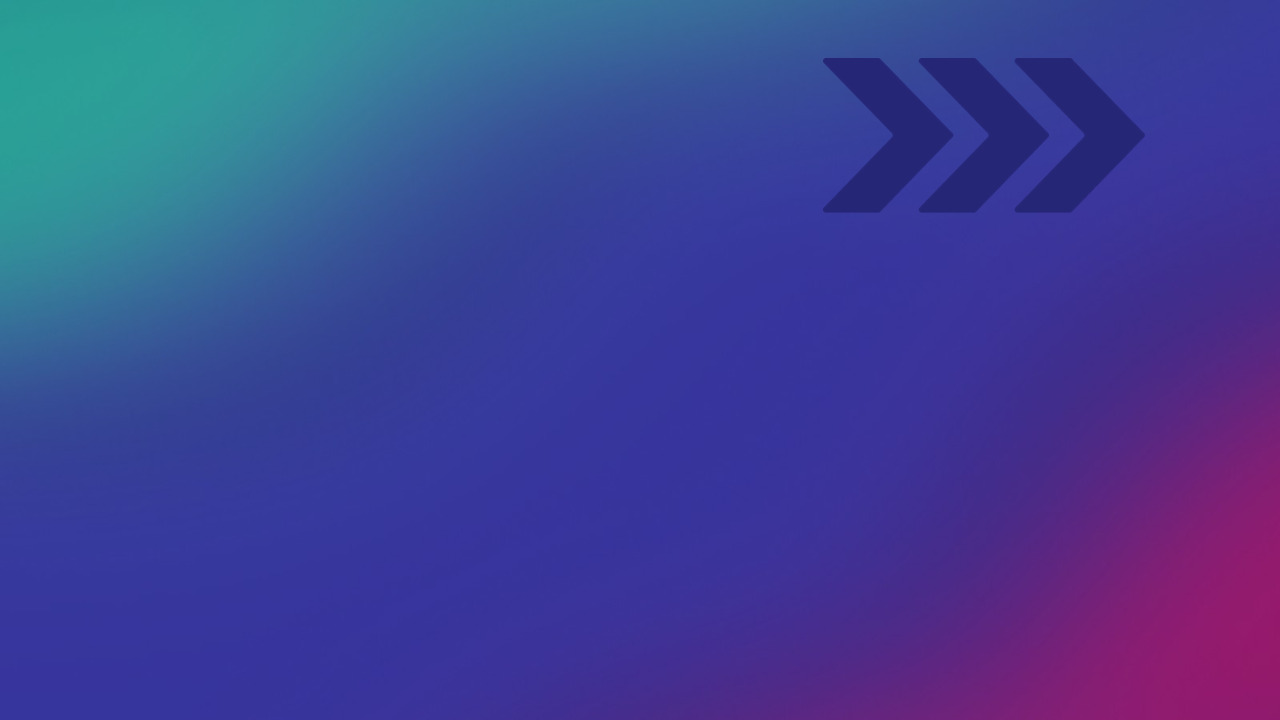
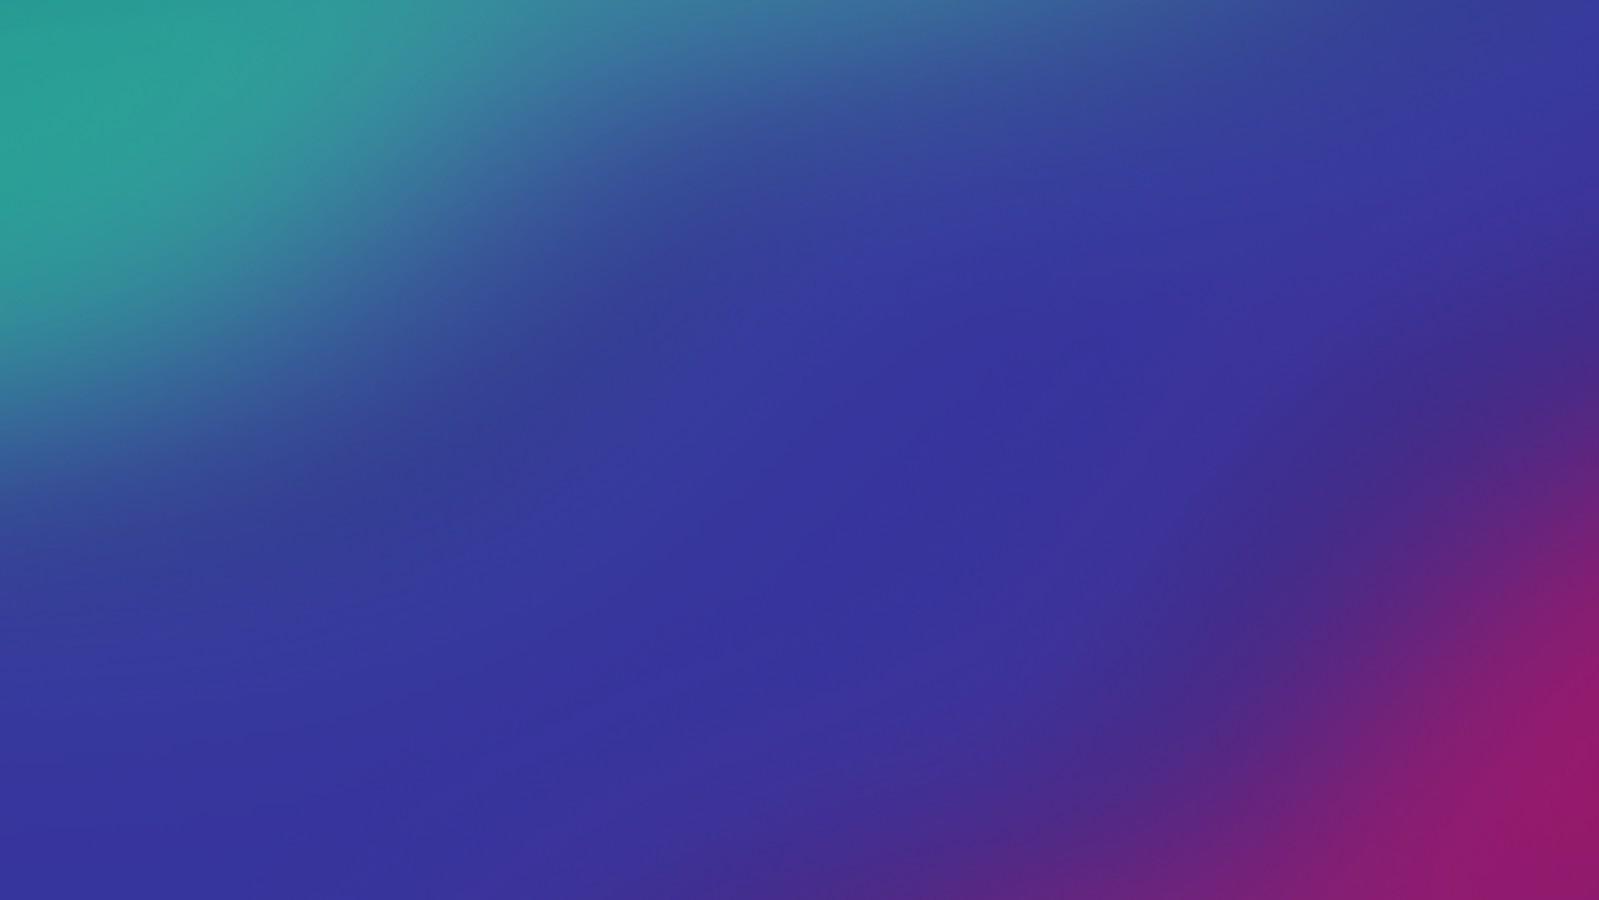
Update /cd/: gradient background + arrow overlay
https://claude.ai/code/session_01K76DjpKnadcSRfmkEe88s4

Changed region(s): [[0.625, 0.0611, 0.9062, 0.3056]]

diff --git a/cd/index.html b/cd/index.html
@@ -177,6 +177,15 @@ input:focus,select:focus{outline:none;border-color:#1a1a1a}
   border-radius:3px;
   line-height:0;
 }
+/* Chevron arrows: top-right, vertically centred in logo zone, right-aligned with QR code */
+.cd-arrows-img{
+  position:absolute;
+  height:80px;
+  width:auto;
+  top:52px;
+  right:24px;
+  pointer-events:none;
+}
 /* CD tagline: #WirMachen + URL bottom-right of front card */
 .cd-tagline{
   position:absolute;
@@ -301,6 +310,7 @@ input:focus,select:focus{outline:none;border-color:#1a1a1a}
   #qr-code canvas,#qr-code img{width:18mm !important;height:18mm !important}
   #qr-code{padding:1mm;border-radius:1mm}
   .cd-tagline{font-size:7pt;bottom:3mm;right:5mm}
+  .cd-arrows-img{height:10mm;top:6.5mm;right:3mm}
 }
 </style>
 </head>
@@ -374,6 +384,7 @@ input:focus,select:focus{outline:none;border-color:#1a1a1a}
     <div class="plabel">Vorderseite &#8211; Deutsch</div>
     <div class="bcard">
       <div class="front">
+        <img class="cd-arrows-img" src="backgrounds/bmds_arrows.png" alt="">
         <img class="card-logo" src="logos/bmds_logo_de_white.svg" alt="BMDS Logo DE">
         <div class="cd-tagline">#Wir<strong>Machen</strong></div>
         <div class="card-body">
@@ -396,6 +407,7 @@ input:focus,select:focus{outline:none;border-color:#1a1a1a}
     <div class="plabel">Rückseite &#8211; English</div>
     <div class="bcard">
       <div class="back">
+        <img class="cd-arrows-img" src="backgrounds/bmds_arrows.png" alt="">
         <img class="card-logo" src="logos/bmds_logo_en_white.svg" alt="BMDS Logo EN">
         <div class="card-body">
           <div class="info-col">

diff --git a/cd/build_standalone.py b/cd/build_standalone.py
@@ -37,6 +37,9 @@ def replace_bg(m):
     return f"url('data:{mime(path)};base64,{b64(path)}')"
 src = re.sub(r"url\('(backgrounds/[^']+)'\)", replace_bg, src)
 
+# 2c. Inline img src="backgrounds/..."
+src = re.sub(r'src="(backgrounds/[^"]+)"', replace_img, src)
+
 # 3. Inline <script src="js/..."></script>
 def replace_script(m):
     path = BASE / m.group(1)